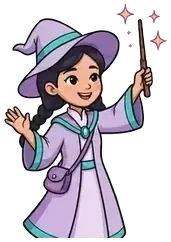
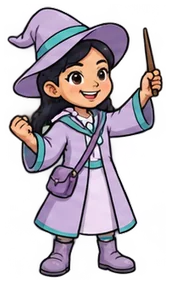
Fix winner sprites and align the robot scanner

diff --git a/GoiTenVuiNhon/games/g5-robots.js b/GoiTenVuiNhon/games/g5-robots.js
@@ -2,13 +2,13 @@
 // Student robots ride the conveyor under a scanner; the scanner stamps the chosen one.
 // Twist: the stamp lands on the wrong robot and throws an error; the belt reverses and carries the last robot to the charging platform.
 (() => {
-  const X0 = 240, STEP = 130.6, BELT_Y = 658, KID_H = 150, SCAN_X = 763;
+  const X0 = 240, STEP = 130.6, BELT_Y = 658, KID_H = 150, SCAN_X = X0 + 4 * STEP;
   const PAD = [1457, 432];
   const pose = (av, p) => p;   // every pose is usable since the source sprites were repaired
 
   GAME_IMPL.g5 = {
     id: 'g5', title: 'Faulty Robot Factory', base: 'assets/g5/', titleY: 470,
-    assets: gAssets(['idle', 'action', 'almost', 'fake', 'twist', 'win'], ['p0', 'p1', 'p2', 'p3', 'p23', 'p28', 'p30', 'p31']),
+    assets: gAssets(['idle', 'action', 'almost', 'fake', 'twist', 'win'], ['p0', 'p2', 'p3', 'p23', 'p28', 'p30', 'p31']),
     startBanner: '🤖 The conveyor belt starts up!', mote: '#9ff3ff', rayColor: '#a8fff0',
 
     setup(r) {
@@ -29,13 +29,17 @@
 
     tick(r, t, te) {
       if (te < 0) {
-        const near = r.players.find(p => Math.abs(X0 + this.idx(r, p, t) * STEP - SCAN_X) < 40);
-        if (near && near !== r.scanning && t > 1) { r.scanning = near; r.banner = '🔍 Scanning: ' + near.name; SFX.tone(1200, .15, { type: 'square', vol: .04, to: 1600 }); }
+        const near = t > 1 ? r.players.find(p => Math.abs(X0 + this.idx(r, p, t) * STEP - SCAN_X) < 40) : undefined;
+        if (near !== r.scanning) {
+          r.scanning = near;
+          r.banner = near ? '🔍 Scanning: ' + near.name : this.startBanner;
+          if (near) SFX.tone(1200, .15, { type: 'square', vol: .04, to: 1600 });
+        }
         if (Math.random() < .03) SFX.tone(90, .08, { type: 'square', vol: .04 });    // belt clank
       }
       const D = r.decoy, Wn = r.winner, S = r.plain ? Wn : D;
       if (te > 0) cue('a', () => { Music.play('tension'); r.banner = '🔍 The scanner stops at ' + S.name + '…'; });
-      if (te > .4) cue('b', () => { CAM.shake(r, 8); FX.metal(X0 + 4 * STEP, BELT_Y - KID_H - 10, 22); FX.ring(X0 + 4 * STEP, BELT_Y - KID_H * .55, '#ffd84a', 120); SFX.heartbeat(); outcome(r.plain ? 'selected' : 'almost_selected', S); r.banner = '✅ Stamped: ' + S.name + '!'; });
+      if (te > .4) cue('b', () => { CAM.shake(r, 8); FX.metal(SCAN_X, BELT_Y - KID_H - 10, 22); FX.ring(SCAN_X, BELT_Y - KID_H * .55, '#ffd84a', 120); SFX.heartbeat(); outcome(r.plain ? 'selected' : 'almost_selected', S); r.banner = '✅ Stamped: ' + S.name + '!'; });
       if (!r.plain) {
         if (te > .9) cue('c', () => { outcome('wrong_turn', D); [0, .25, .5, .75].forEach(d => SFX.tone(d % .5 ? 660 : 880, .22, { type: 'square', vol: .07, delay: d })); SFX.noise(.4, { vol: .2, f: 3000 }); r.banner = '🚨 ERROR! Wrong robot stamped!'; });
         if (te > 1.3) cue('d', () => { FX.metal(X0, BELT_Y + 10, 14); FX.metal(X0 + 9 * STEP, BELT_Y + 10, 14); SFX.swoosh(); r.banner = '⏪ The belt runs backwards!'; CAM.shake(r, 6); });
@@ -56,16 +60,20 @@
       // charging pad + scanner
       drawImg('p31', PAD[0], PAD[1] + 10, 190, { anchor: 'bottom', alpha: .6 + .4 * Math.sin(rt * 4) });
       const err = !r.plain && te > .9 && !done;
-      const sx = te < 0 ? SCAN_X + Math.sin(rt * 2.2) * 110 : SCAN_X;
-      if (te < .9 && !done) FX.beam(sx, BELT_Y - 330, BELT_Y + 4, 70, rt, err ? '#ff5d5d' : '#5dff9a');
-      drawImg(err ? 'p0' : te > 0 && !done ? 'p2' : done ? 'p3' : 'p1', sx + 150, BELT_Y - 150 + Math.sin(rt * 5) * 8, 170, { anchor: 'bottom', flip: Math.cos(rt * 2.2) >= 0 || te >= 0 });
-      if (err) { const on = Math.sin(rt * 14) > 0; drawImg('p23', sx + 150, BELT_Y - 330, 80, { anchor: 'bottom', alpha: on ? 1 : .35 }); }
+      const scanned = te < 0 ? r.scanning : S;
+      const sx = scanned ? X0 + this.idx(r, scanned, rt) * STEP : SCAN_X + Math.sin(rt * 2.2) * 40;
+      const scannerY = BELT_Y - 150 + Math.sin(rt * 5) * 8;
+      // p0 has no baked light. Its lens is 23px right of center at 170px wide.
+      const scannerX = (te < .9 && !done ? sx : SCAN_X) - 23;
+      if (scanned && te < .9 && !done) FX.beam(sx, scannerY - 155, BELT_Y + 4, 54, rt);
+      drawImg(done ? 'p3' : te >= 2 ? 'p2' : 'p0', scannerX, scannerY, 170, { anchor: 'bottom' });
+      if (err) { const on = Math.sin(rt * 14) > 0; drawImg('p23', scannerX, BELT_Y - 330, 80, { anchor: 'bottom', alpha: on ? 1 : .35 }); }
       // robots on the belt
       const order = [...r.players].sort((a, b) => this.idx(r, a, rt) - this.idx(r, b, rt));
       for (const p of order) {
         let x = X0 + this.idx(r, p, rt) * STEP, y = BELT_Y, ps = 'action', rot = 0, alpha = 1, h = KID_H;
         if (x < 200) alpha = clamp((x - 150) / 50);                                  // into the tunnel
-        if (Math.abs(x - SCAN_X) < 50 && te < .9) ps = 'almost';
+        if (p === scanned && te < 0) ps = 'almost';
         if (te > 0) ps = 'idle';
         if (p === S && te > .4) ps = r.plain ? 'fake' : te < .9 ? 'fake' : 'twist';
         if (!r.plain && te > 1.3 && p !== Wn) { ps = 'twist'; rot = Math.sin(rt * 12 + p.seed * 9) * .08; }
@@ -74,24 +82,24 @@
         const bob = te < 0 ? Math.abs(Math.sin(rt * 6 + p.seed * 5)) * 4 : 0;
         charImg(p.av, pose(p.av, ps), x, y - bob, h, { rot, alpha });
         p.x = x; p.y = y - 40;
-        if (alpha > .5) tagC(p.name, x, y + 26, p === r.scanning && te < 0);
+        if (alpha > .5) tagC(p.name, x, y + 26, p === scanned && te < .9);
       }
       // the stamp
       if (te > 0 && !done && te < 2) {
-        const sx = X0 + 4 * STEP, k = ease(clamp(te / .4)), lift = te > .5 ? ease(clamp((te - .5) / .3)) * 200 : 0;
+        const k = ease(clamp(te / .4)), lift = te > .5 ? ease(clamp((te - .5) / .3)) * 200 : 0;
         const y = lerp(260, BELT_Y - KID_H - 30, k) - lift;
-        ctx.save(); ctx.fillStyle = '#7a4b2a'; ctx.fillRect(sx - 10, y - 90, 20, 70); ctx.fillStyle = '#c0392b';
-        roundRect(ctx, sx - 42, y - 24, 84, 30, 8); ctx.fill(); ctx.restore();
-        if (te > .4) {   // the mark on the robot: ✓ then ✗
-          const bad = !r.plain && te > .9;
-          ctx.save(); ctx.globalAlpha = clamp((te - .4) * 5); ctx.fillStyle = bad ? '#e63946' : '#2ecc71'; ctx.beginPath(); ctx.arc(sx, BELT_Y - KID_H * .55, 26, 0, 7); ctx.fill();
-          ctx.fillStyle = '#fff'; ctx.font = '900 34px "Baloo 2","Segoe UI",sans-serif'; ctx.textAlign = 'center'; ctx.textBaseline = 'middle'; ctx.fillText(bad ? '✗' : '✓', sx, BELT_Y - KID_H * .55 + 2); ctx.restore();
+        ctx.save(); ctx.fillStyle = '#7a4b2a'; ctx.fillRect(SCAN_X - 10, y - 90, 20, 70); ctx.fillStyle = '#c0392b';
+        roundRect(ctx, SCAN_X - 42, y - 24, 84, 30, 8); ctx.fill(); ctx.restore();
+        if (te > .4 && S) {   // the mark on the robot: ✓ then ✗
+          const bad = !r.plain && te > .9, markY = S.y + 40 - KID_H * .55;
+          ctx.save(); ctx.globalAlpha = clamp((te - .4) * 5); ctx.fillStyle = bad ? '#e63946' : '#2ecc71'; ctx.beginPath(); ctx.arc(S.x, markY, 26, 0, 7); ctx.fill();
+          ctx.fillStyle = '#fff'; ctx.font = '900 34px "Baloo 2","Segoe UI",sans-serif'; ctx.textAlign = 'center'; ctx.textBaseline = 'middle'; ctx.fillText(bad ? '✗' : '✓', S.x, markY + 2); ctx.restore();
         }
       }
-      if (err && te < 2) FX.every(r, 'zap', .16, () => { FX.bolts(SCAN_X + 150, BELT_Y - 230, 3, 120, '#ffe066'); FX.smoke(SCAN_X + 170, BELT_Y - 260, 2, '#9aa5b1'); });
+      if (err && te < 2) FX.every(r, 'zap', .16, () => { FX.bolts(scannerX, scannerY - 155, 3, 120, '#ffe066'); FX.smoke(scannerX + 20, scannerY - 185, 2, '#9aa5b1'); });
       if (!r.plain && te > .9 && te < 2 && !done) {
-        drawImg('p28', SCAN_X + 60, BELT_Y - 200, 120 * (.8 + .2 * Math.sin(rt * 20)), { alpha: .9 });
-        drawImg('p30', SCAN_X + 180, BELT_Y - 260 - (te - .9) * 60, 200, { alpha: 1 - clamp((te - 1.4) / .6) });
+        drawImg('p28', scannerX, BELT_Y - 200, 120 * (.8 + .2 * Math.sin(rt * 20)), { alpha: .9 });
+        drawImg('p30', scannerX + 40, BELT_Y - 260 - (te - .9) * 60, 200, { alpha: 1 - clamp((te - 1.4) / .6) });
       }
       if (done) {
         const k = clamp((rt - r.doneAt) / .4);
@@ -102,7 +110,7 @@
 
     idle(t) {
       drawImg('p31', PAD[0], PAD[1] + 10, 190, { anchor: 'bottom', alpha: .7 });
-      drawImg('p1', SCAN_X + 150 + Math.sin(t * 2) * 100, BELT_Y - 150 + Math.sin(t * 5) * 8, 170, { anchor: 'bottom', flip: Math.cos(t * 2) >= 0 });
+      drawImg('p0', SCAN_X - 23 + Math.sin(t * 2) * 100, BELT_Y - 150 + Math.sin(t * 5) * 8, 170, { anchor: 'bottom', flip: Math.cos(t * 2) >= 0 });
       for (let k = 0; k < 10; k++) {
         const x = X0 + (((k - t * .6) % 10 + 10) % 10) * STEP;
         charImg(k, 'idle', x, BELT_Y - Math.abs(Math.sin(t * 6 + k)) * 4, KID_H, { alpha: x < 200 ? clamp((x - 150) / 50) : 1 });

diff --git a/GoiTenVuiNhon/index.html b/GoiTenVuiNhon/index.html
@@ -77,7 +77,7 @@ body.running #stage{cursor:default}
 .stageWrap:fullscreen .result{inset:auto}
 .stageWrap:fullscreen .card{padding:clamp(20px,4vh,46px) clamp(24px,5vw,68px) clamp(16px,3vh,36px);max-width:min(85vw,148vh)}
 .stageWrap:fullscreen .card .name{font-size:clamp(28px,min(7vw,13vh),110px)}
-.stageWrap:fullscreen .card img{height:min(17vw,26vh)}
+.stageWrap:fullscreen .card img{width:min(38vw,58vh,100%);height:min(17vw,26vh)}
 .stageWrap:fullscreen .btns .candy{min-height:44px;padding:8px 18px;font-size:clamp(14px,2.8vh,24px)}
 .stageWrap:fullscreen .btns .btnGo{min-width:14ch}
 @media (pointer:coarse){
@@ -143,7 +143,7 @@ body.running #stage{cursor:default}
   background:linear-gradient(180deg,#9734cc,#67188e);color:#fff;font-family:var(--title);
   font-size:2.6cqw;line-height:1.2;font-weight:800;padding:.65cqw 2.8cqw;border-radius:999px;
   box-shadow:0 .35cqw 0 #48125f,0 0 0 .22cqw #ffd84a}
-.card img{height:15.5cqw;display:block;margin:0 auto;filter:drop-shadow(0 0 2.2cqw #ffc844a8) drop-shadow(0 .5cqw .5cqw #0003)}
+.card img{width:min(35cqw,100%);height:15.5cqw;object-fit:contain;display:block;margin:0 auto;filter:drop-shadow(0 0 2.2cqw #ffc844a8) drop-shadow(0 .5cqw .5cqw #0003)}
 .card .name{font-family:var(--title);font-size:6.6cqw;font-weight:800;line-height:1.15;margin:.6cqw 0 1.65cqw;overflow-wrap:anywhere;
   color:#31204e;text-shadow:0 .2cqw 0 #ffda76}
 @keyframes celebrate-rays{from{transform:scale(.72) rotate(-8deg);opacity:0}to{transform:scale(1);opacity:1}}

diff --git a/GoiTenVuiNhon/sw.js b/GoiTenVuiNhon/sw.js
@@ -1,4 +1,4 @@
-const CACHE_NAME = 'name-picker-vol1-v20';
+const CACHE_NAME = 'name-picker-vol1-v22';
 const PRECACHE = [
   "./",
   "./index.html",
